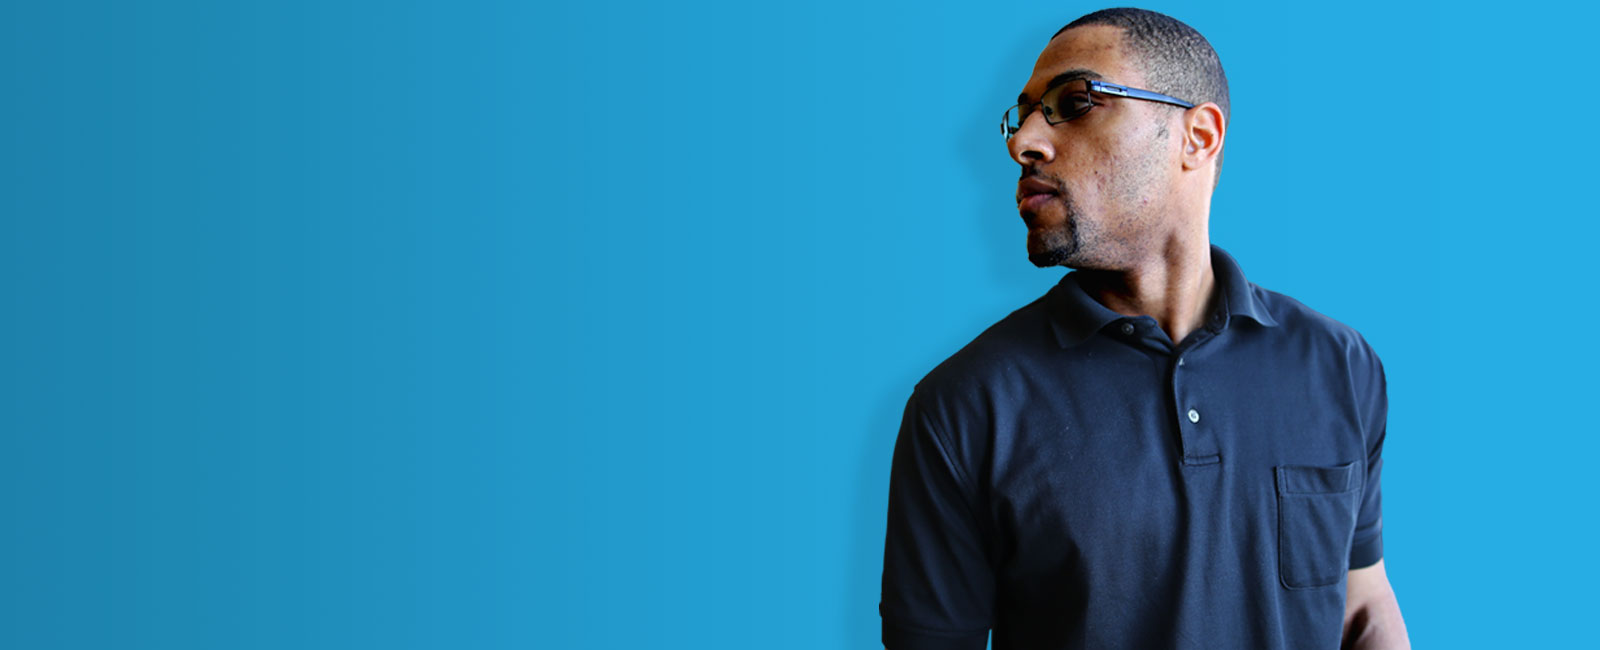
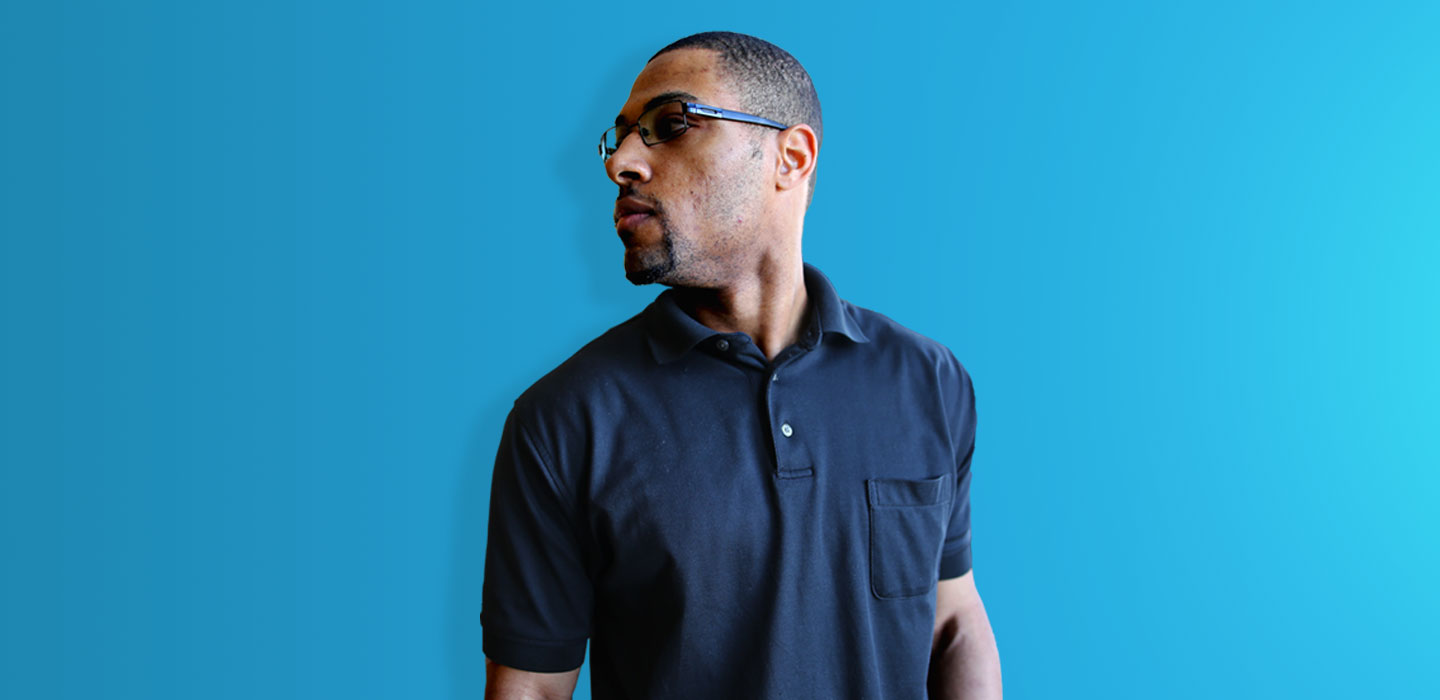
ne layout and additions

diff --git a/style.css b/style.css
@@ -27,6 +27,7 @@ p {
 .caption hr{
 	width: 18%;
 	border-top: 4px solid #26ACE3 !important;
+	text-align: left;
 }
 .matthews-headline {
 	font-size: 42px;
@@ -54,8 +55,10 @@ p {
 .category-text-title {
  	text-decoration: none;
  	color: #222;
-	
-	
+}
+
+.matthews-spacing{
+	padding-top: 80px;
 }
 .font-family{
 	font-family: 'Arimo', sans-serif;
@@ -80,8 +83,8 @@ p {
 .small-font-family-white {
 	font-family: 'Arimo', sans-serif;
 	font-weight: 400;
-	color: #fff;
-	font-size: 3.4em;
+	color: #222;
+	font-size: 3.6em;
 	
 }
 .container-post {
@@ -145,8 +148,8 @@ a {
 }
 .caption-hero button {
     background-color: transparent;
-    border: 1px solid #fff;
-    color: white;
+    border: 1px solid #26ACE3;
+    color: #26ACE3;
     padding: 15px 32px;
     text-align: center;
     text-decoration: none;
@@ -189,6 +192,11 @@ a {
 	min-width: 215px;
 
 }
+/* text hero */
+
+.text-hero{
+	padding: 210px 0px 105px 0px ;
+}
 /************* New Navigation ***************/
 .navbar {
     position: relative;
@@ -196,6 +204,11 @@ a {
     margin-bottom: 0px;
    border-bottom: 1px solid #F1F1F1;
 	    /*box-shadow: 0px 1px 15px rgba(23,43,99,0.2);*/
+}
+.navbar-fixed-top {
+position: fixed;
+	top: 0;
+margin-bottom: 70px;
 }
 .menu{
 	float:left; 
@@ -219,12 +232,12 @@ a {
 .navbar-brands {
     float: left;
     height: 50px;
-    padding: 18px 15px;
+    padding: 13px 15px;
     font-size: 18px;
     line-height: 20px;
 }
 .nav {
-    padding: 10px 0px 3px 0px;
+    padding: 5px 0px 3px 0px;
 }
 .nav .navbar-nav .navbar-right>li>a:hover {
     padding-top: 15px;
@@ -561,7 +574,7 @@ a:hover {
 	border-top: 1px solid #F1F1F1;
 	border-bottom: 1px solid #F1F1F1;
 	background-color: #F9F9F9;
-	padding: 50px 0px;
+	padding: 155px 0px 50px 0px;
 	
 }
 /********************** new testimony section***********************/
@@ -592,7 +605,7 @@ a:hover {
 .post-heading-left h2, .post-heading-center h2 {
     font-size: 36px;
     line-height: 44px;
-    text-transform: uppercase;
+    /*text-transform: uppercase;*/
     letter-spacing: 1px;
     margin: 0px;
 }
@@ -1008,6 +1021,7 @@ figure.effect-bubba:hover p {
 	margin-top: 20px;
 }
 /************ Contact Page ***************/
+
 form {
 	padding-top: 15px;
 }
@@ -1095,9 +1109,9 @@ textarea {
     -o-transition: background-color 250ms linear, border 250ms linear, color 250ms linear;
     -ms-transition: background-color 250ms linear, border 250ms linear, color 250ms linear;
     transition: background-color 250ms linear, border 250ms linear, color 250ms linear;
-    border-radius: 1px;
-    -moz-border-radius: 1px;
-    -webkit-border-radius: 1px;
+    border-radius: 25px;
+    -moz-border-radius: 25px;
+    -webkit-border-radius: 25px;
 }
 
 /************** porfolio pages *************/

diff --git a/front-page.php b/front-page.php
@@ -1,16 +1,16 @@
 <?php get_header(); ?>
 
-<!-- Home header -->
+<!-- Home header 
 	
   <div class="featured-top">
                     
                 
     
-                <!-- .post-thumbnail -->
-                <div class="post-thumbnail">
+                <!-- .post-thumbnail 
+                <div class="post-thumbnail" id="hero">
                          
                                 
-                    <!-- .entry-header -->
+                    <!-- .entry-header 
                     <header class="entry-header">
                         
                          <div class="container">
@@ -19,37 +19,65 @@
                          		<div class="content-hero caption-hero">
                    					<h1 class="small-font-family-white"><b>I design custom websites & apps for Instructors and Service Business 
 Professionals</b></h1>
-									<!--<h1 class="font-change">I help Instructors and service businesses increase their sales, course signups, and subscribers through website design</h1>-->
+									<!--<h1 class="font-change">I help Instructors and service businesses increase their sales, course signups, and subscribers through website design</h1>
 									<a href="<?php echo get_page_link(8); ?>" class="button-center"><button>VIEW PROJECTS &#8594;</button></a>
 								</div>
                          		</div>
                          	</div>
                          </div>               
-                        <!-- .entry-meta -->
+                        <!-- .entry-meta 
 
 
                         
                     </header>
-                    <!-- .entry-header -->
+                    <!-- .entry-header 
                     
                 </div>
-            	<!-- .post-thumbnail -->
+            	<!-- .post-thumbnail 
                 
 </div>
-            <!-- .featured-top -->	
+            <!-- .featured-top -->
+            			<div class="text-hero">	
+        				<div class="container">
+                         	<div class="row">
+                         		<div class="col-xs-12 col-md-12">
+                         		<div class="content-hero caption-hero text-center">
+                   					<h1 class="small-font-family-white text-center"><b>I provide result driven Websites & Apps for Intructors and Service Business Owners </b></h1>
+								
+									<!--<h1 class="font-change">I help Instructors and service businesses increase their sales, course signups, and subscribers through website design</h1>-->
+									<a href="<?php echo get_page_link(8); ?>" class="button-center"><button>VIEW PROJECTS &#8594;</button></a>
+								</div>
+                         		</div>
+                         	</div>
+                         </div>
+                         </div>              
 
-
+<!-- new hero image -->
+	
+	
+			<div class="matthews-service-image-padding">
+			<div class="featured-top-blog">
+				<img src="<?php echo get_template_directory_uri(); ?>/img/matthews-background-hero.jpg" alt="Matthews Service image">
+			</div>
+			</div>
+	
+	
+	
+	
+	
+	
+	<!-- intro duction -->
 		<div class="spacing"></div>
 		<div class="caption">
 			<div class="container-post">
 				<div class="row">
-					<div class="col-md-12  intro text-center">
+					<div class="col-md-12  intro">
 					
 					<h1 class="matthews-headline">Hello I'm Joshua Matthews</h1>
 						<hr>
 					<p>I help Instructors and Service Business Owners grow their business by increasing sales, course signups, and subscribers so they can make a profitable business even if they are in the early stages of development. I do this by understanding your target market and streamlining a process that will convert your visitors into paying customers. </p>
 					
-					<p>I am a business minded designer who understands the challenges businesses face when it comes to establishing a profitable website. If you are ready to build a effective website for your company and work with someone whose focus is in the success of your business, your in the right place.</p>
+					<p>I am a business minded designer who understands the challenges businesses face when it comes to establishing a profitable website. If you are ready to build an effective website for your company and work with someone whose focus is in the success of your business, your in the right place.</p>
 					
 					<p>Want to see how I can conrtibute to your bussiness success?</p>
 				<!--<?php 
@@ -74,7 +102,7 @@ Professionals</b></h1>
 		
 		<div class="container-post">
 			<div class="row">
-				<div class="col-md-12 text-center">
+				<div class="col-md-12">
 					<a href="<?php echo get_page_link(158); ?>"><button>Work WIth Me</button></a>
 				</div>
 			</div>
@@ -136,7 +164,7 @@ Professionals</b></h1>
             <div class="container-post">
                 
                 <div class="caption post-heading-center animation" data-animation="animation-fade-in-down">
-                    <h2>Kind words from good people</h2>
+                    <h2>What people say</h2>
                     <hr>
                     <p></p>
                 </div>

diff --git a/page-contact.php b/page-contact.php
@@ -1,15 +1,21 @@
 <?php get_header(); ?>
-
-		<div class="matthews-divider-topics caption">
+<div class="spacing"></div>
+		<div class="matthews-spacing caption">
 			<div class="container-post">
 				<div class="row">
 					<div class="col-md-12">
-						<h1 class="matthews-headline text-center">Lets build something great</h1>
+						<h1 class="matthews-headline text-center">Ready to make an investment in your business?</h1>
 						<hr>
 					</div>
 				</div>
 			</div>
 		</div>
+		<!-- hero image -->
+			<div class="matthews-service-image-padding">
+			<div class="featured-top-blog">
+				<img src="<?php echo get_template_directory_uri(); ?>/img/matthews-contact-hero.jpg" alt="Matthews Service image">
+			</div>
+			</div>
 		<!-- form -->
 
 		<div class="contact-form">
@@ -18,7 +24,7 @@
 					<div class="col-md-12">
 					
 								<div>
-									<p class="text-center">I look forward to hearing about your project and being a part of your business success. Fill out my form and I will get back to you within 24 hours.</p>
+									<p class="">I look forward to hearing about your project and being a part of your business success. Fill out my form and I will get back to you within 24 hours.</p>
 								</div>
 						<form action="#" method="post" id="portfolioContactForm" data-url="<?php echo admin_url('admin-ajax.php') ?>">
 						
@@ -67,6 +73,19 @@
 			</div>
 		</div>
 		
+<!-- additional links -->
 
+<div class="spacing"></div>
+<div class="container-post">
+	<div class="row">
+		<div class="col-md-12">
+		<h4>GET IN TOUCH</h4>
+			<p><i class="fa fa-envelope" aria-hidden="true"></i> email: jm@matthewsdesigns.technology</p>
+			 <p><i class="fa fa-twitter" aria-hidden="true"></i> twitter: @jmatthews_12</p> 
+			   <p><i class="fa fa-facebook" aria-hidden="true"></i>facebook: @ilikematthewsdesigns</p> 
+			   <p><i class="fa fa-mobile" aria-hidden="true"></i> 214/422/8721</p>
+		</div>
+	</div>
+</div>
 
 <?php get_footer(); ?>

diff --git a/header.php b/header.php
@@ -28,7 +28,7 @@
 
 <div class="top-pad">
 
-<nav class="navbar class-white text-effect">
+<nav class="navbar class-white text-effect navbar-fixed-top">
   <div class="container">
     <!-- Brand and toggle get grouped for better mobile display -->
     <div class="navbar-header">

diff --git a/page-portfolio-template.php b/page-portfolio-template.php
@@ -8,9 +8,9 @@
 
 get_header(); ?>
 
-
+<div class="spacing"></div>
 	<!-- Home header -->
-		<div class="matthews-divider-topics caption">
+		<div class="matthews-spacing caption">
 			<div class="container-post">
 				<div class="row">
 					<div class="col-md-12">
